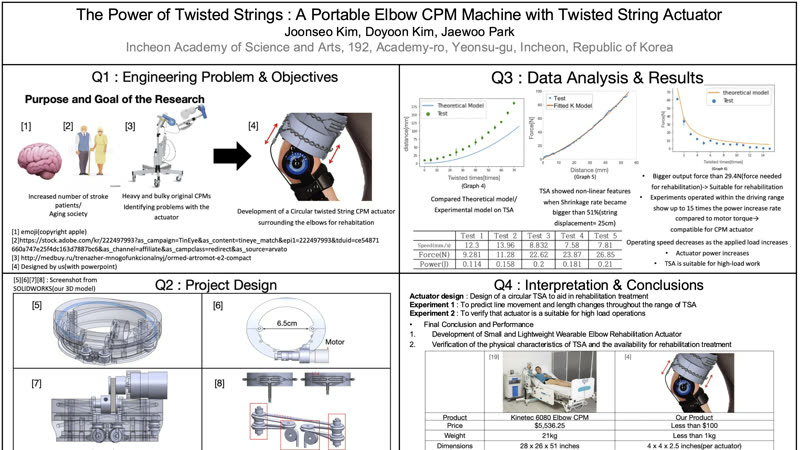
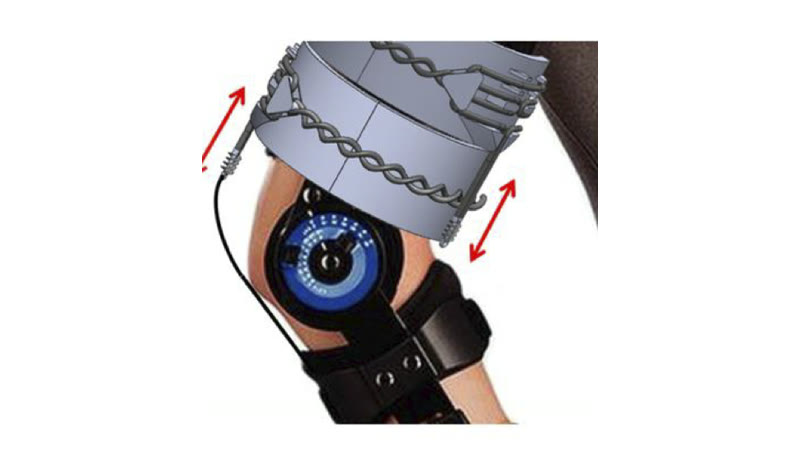
content: align pMMG project with submitted paper and polish site
- Rewrite pMMG post, card, and bullets from the latest manuscript
  (VM/VL/BF at 20-60%, R2 vs knee torque, VM 20% / VL 30% candidates)
- Update CV PDF with the same pMMG corrections
- New Twisted-String (device render) and DDQN (learning curve) thumbnails
- Tighten intro, show registered patent number, expand skills
- Restyle project list and 404 pages to the new design

diff --git a/blog.html b/blog.html
@@ -1,19 +1,21 @@
 ---
 layout: post
-title: "Posts"
+title: "Research projects"
+hide_eyebrow: true
 ---
 
-<ul class="resume-item-list">
-  {% for post in site.posts %}
-  <li style="margin-bottom: 15px">
-    <a href="{{ post.url | relative_url }}" style="
-        text-decoration: none;
-        color: inherit;
-        font-weight: bold;
-        font-size: 1.1em;
-      ">
-      {{ post.title }}
-    </a>
-  </li>
+<div class="project-grid">
+  {% for project in site.data.projects %}
+  <a class="project-card" href="{{ project.url | relative_url }}">
+    {% if project.image %}
+    <img class="project-image" src="{{ project.image | relative_url }}" alt="" loading="lazy" />
+    {% endif %}
+    <div class="project-body">
+      <div class="project-meta">{{ project.duration | replace: '&mdash;', '–' }}<br>{{ project.role | replace: ' • ', ' · ' }}</div>
+      <h3 class="project-title">{{ project.project }}</h3>
+      {% if project.summary %}<p class="project-summary">{{ project.summary }}</p>{% endif %}
+      <span class="project-link">Read more →</span>
+    </div>
+  </a>
   {% endfor %}
-</ul>
+</div>

diff --git a/404.html b/404.html
@@ -1,25 +1,9 @@
 ---
 permalink: /404.html
-layout: page
+layout: post
+title: "Page not found"
+hide_eyebrow: true
 ---
 
-<style type="text/css" media="screen">
-  .container {
-    margin: 10px auto;
-    max-width: 600px;
-    text-align: center;
-  }
-  h1 {
-    margin: 30px 0;
-    font-size: 4em;
-    line-height: 1;
-    letter-spacing: -1px;
-  }
-</style>
-
-<div class="container">
-  <h1>404</h1>
-
-  <p><strong>Page not found :(</strong></p>
-  <p>The requested page could not be found.</p>
-</div>
+<p>The page you're looking for doesn't exist or has moved.</p>
+<p><a href="{{ '/' | relative_url }}">Go to the resume</a> or <a href="{{ '/blog.html' | relative_url }}">browse all projects</a>.</p>

diff --git a/_layouts/post.html b/_layouts/post.html
@@ -107,16 +107,10 @@
     </nav>
 
     <div class="post-wrapper">
-      {% if page.title != "Posts" %}
       <header class="post-header">
-        <p class="post-eyebrow">Research project</p>
+        {% unless page.hide_eyebrow %}<p class="post-eyebrow">Research project</p>{% endunless %}
         <h1 class="post-title">{{ page.title }}</h1>
       </header>
-      {% else %}
-      <header class="post-header">
-        <h1 class="post-title">{{ page.title }}</h1>
-      </header>
-      {% endif %}
 
       <article class="post-content">{{ content }}</article>
     </div>

diff --git a/_layouts/resume.html b/_layouts/resume.html
@@ -233,7 +233,7 @@
     <div class="wrapper">
       <span>© {{ 'now' | date: '%Y' }} {{ site.resume_name }}</span>
       <span>
-        <a href="{{ '/blog.html' | relative_url }}">Project posts</a>
+        <a href="{{ '/blog.html' | relative_url }}">All projects</a>
         {% if site.resume_cv_url %} · <a href="{{ site.resume_cv_url | relative_url }}" target="_blank" rel="noopener">CV (PDF)</a>{% endif %}
       </span>
     </div>

diff --git a/_posts/2024-12-02-pmmg-sensor.md b/_posts/2024-12-02-pmmg-sensor.md
@@ -1,71 +1,72 @@
 ---
 layout: post
-title: "Optimal pMMG Sensor Placement for Knee Extensor Analysis"
+title: "pMMG Sensor Placement for Knee Extension Torque Analysis"
 # date: 2024-12-02
 ---
 
 ### Overview
-This project introduces a wearable, pneumatic mechanomyography (pMMG) sensor system designed to overcome the practical limitations of conventional muscle activation sensors. As the first author and project lead, I directed the entire research cycle—from hardware design and protocol formulation to signal processing and algorithm validation—to establish optimal sensor placement guidelines for estimating knee extensor joint torque.
+A pneumatic mechanomyography (pMMG) sensor measures the local mechanical deformation of a contracting muscle as a pressure change inside a small air cell. In this exploratory study with one healthy participant, I measured pMMG responses at multiple attachment positions on the thigh and compared each one with reference knee joint torque, to find where the sensor best reflects knee extension. The squat-group results identified **vastus medialis (VM) 20%** and **vastus lateralis (VL) 30%** as candidate attachment positions. I led the project as first author, and the manuscript is currently under review at **Journal of Sensors (Wiley)**.
 
 ---
 
 ### Key Highlights
 
 #### 1. Motivation & Objective
-Conventional sEMG sensors are highly susceptible to sweat-induced signal distortion, electrical noise, and require direct skin contact. To resolve these issues, we developed a robust pMMG sensor system capable of directly measuring mechanical muscle changes, even over clothing. Beyond simply building a sensor, the primary objective of this research is to mathematically identify the optimal sensor placements on the knee extensors (Rectus Femoris, Vastus Medialis, and Vastus Lateralis) to effectively estimate joint torque for lower limb biomechanical analysis.
+Wearable muscle sensors each have practical weaknesses: sEMG is sensitive to electrode–skin contact and electrical noise, force myography to wearing pressure and sensor position, and conventional MMG to vibration and motion artifacts. pMMG is noninvasive, resistant to electrical noise, and can measure over clothing. However, its pressure response depends on how well the muscle's deformation reaches the air cell, and unlike sEMG (with guidelines such as SENIAM), there is no established guidance on where to attach it. This study investigated attachment positions on the knee extensors VM and VL, with the knee flexor biceps femoris (BF) as a comparison muscle.
 
-#### 2. Hardware System Design
+#### 2. Hardware & Experimental Setup
 
 <div style="text-align: center; margin-top: 20px; margin-bottom: 30px;">
-  <img src="{{ '/_assets/photos/pmmg-sensor/sensor_and_housing.jpeg' | relative_url }}" alt="Final assembled sensor and 3D housing" style="width: 50%; border-radius: 8px; cursor: zoom-in; box-shadow: 0 4px 6px rgba(0,0,0,0.1); transition: transform 0.2s;" onmouseover="this.style.transform='scale(1.02)'" onmouseout="this.style.transform='scale(1)'" onclick="openModal('{{ '/_assets/photos/pmmg-sensor/sensor_and_housing.jpeg' | relative_url }}')">
+  <img src="{{ '/_assets/photos/pmmg-sensor/sensor_and_housing.jpeg' | relative_url }}" alt="Assembled pMMG sensors" style="width: 50%; border-radius: 8px; cursor: zoom-in; box-shadow: 0 4px 6px rgba(0,0,0,0.1); transition: transform 0.2s;" onmouseover="this.style.transform='scale(1.02)'" onmouseout="this.style.transform='scale(1)'" onclick="openModal('{{ '/_assets/photos/pmmg-sensor/sensor_and_housing.jpeg' | relative_url }}')">
   <p style="font-size: 0.9em; color: #555; margin-top: 15px; line-height: 1.6; text-align: center; max-width: 80%; margin-left: auto; margin-right: auto;">
-    <span style="display: block; font-style: italic; color: #666; margin-bottom: 5px;">Fig. 1: Assembled pMMG Sensor</span>
-    The final assembled pMMG sensor and its 3D-printed housing.
+    <span style="display: block; font-style: italic; color: #666; margin-bottom: 5px;">Fig. 1: pMMG Sensors</span>
+    Assembled pMMG sensors with their bands and wiring.
   </p>
 </div>
+
+Each pMMG sensor contains an MS5607 pressure sensor and is read by an STM32 microcontroller (NUCLEO-G474RE) at 200 Hz, with the firmware developed in **STM32CubeIDE**. The sensor was fixed with sports tape and then secured with an elastic band so it stayed at the same spot on the skin throughout the experiment. Reference knee joint torque was computed from a **Vicon** motion-capture system and a force-plate treadmill (MOTEK) using the plug-in gait dynamics model.
 
 <div style="text-align: center; margin-top: 20px; margin-bottom: 30px;">
   <img src="{{ '/_assets/photos/pmmg-sensor/thigh_pmmg.png' | relative_url }}" alt="Sensor attachment on the thigh" style="width: 50%; border-radius: 8px; cursor: zoom-in; box-shadow: 0 4px 6px rgba(0,0,0,0.1); transition: transform 0.2s;" onmouseover="this.style.transform='scale(1.02)'" onmouseout="this.style.transform='scale(1)'" onclick="openModal('{{ '/_assets/photos/pmmg-sensor/thigh_pmmg.png' | relative_url }}')">
   <p style="font-size: 0.9em; color: #555; margin-top: 15px; line-height: 1.6; text-align: center; max-width: 80%; margin-left: auto; margin-right: auto;">
     <span style="display: block; font-style: italic; color: #666; margin-bottom: 5px;">Fig. 2: Sensor Attachment</span>
-    Sensor attachment on the thigh for data acquisition.
+    Thigh-mounted pMMG sensors with motion-capture markers on the force-plate treadmill.
   </p>
 </div>
 
-To accommodate diverse body types and control external variables like band tension, I designed a non-elastic Velcro-based sensor housing. The hardware incorporates a PVC film-based air pouch, an MS5607 pneumatic pressure sensor, and an STM32 (NUCLEO-G474RE) microcontroller. The firmware was developed utilizing **STM32CubeIDE** to ensure reliable and continuous data acquisition at a 200Hz sampling rate.
+Attachment positions were expressed as a percentage of thigh length, from the distal femur (0%) to the top of the femoral head (100%). Responses were recorded at **20% to 60%** on each of VM, VL, and BF.
 
-#### 3. Signal Processing & Validation
+#### 3. Protocol & Analysis
 
 <div style="display: flex; justify-content: center; gap: 10px; margin-top: 20px;">
-  <img src="{{ '/_assets/photos/pmmg-sensor/squat_exp.png' | relative_url }}" alt="Squat Experiment" style="width: 49%; border-radius: 8px; cursor: zoom-in; box-shadow: 0 4px 6px rgba(0,0,0,0.1); transition: transform 0.2s;" onmouseover="this.style.transform='scale(1.02)'" onmouseout="this.style.transform='scale(1)'" onclick="openModal('{{ '/_assets/photos/pmmg-sensor/squat_exp.png' | relative_url }}')">
-  <img src="{{ '/_assets/photos/pmmg-sensor/gait_exp.png' | relative_url }}" alt="Gait Experiment" style="width: 49%; border-radius: 8px; cursor: zoom-in; box-shadow: 0 4px 6px rgba(0,0,0,0.1); transition: transform 0.2s;" onmouseover="this.style.transform='scale(1.02)'" onmouseout="this.style.transform='scale(1)'" onclick="openModal('{{ '/_assets/photos/pmmg-sensor/gait_exp.png' | relative_url }}')">
+  <img src="{{ '/_assets/photos/pmmg-sensor/squat_exp.png' | relative_url }}" alt="Squat task" style="width: 49%; border-radius: 8px; cursor: zoom-in; box-shadow: 0 4px 6px rgba(0,0,0,0.1); transition: transform 0.2s;" onmouseover="this.style.transform='scale(1.02)'" onmouseout="this.style.transform='scale(1)'" onclick="openModal('{{ '/_assets/photos/pmmg-sensor/squat_exp.png' | relative_url }}')">
+  <img src="{{ '/_assets/photos/pmmg-sensor/gait_exp.png' | relative_url }}" alt="Walking task" style="width: 49%; border-radius: 8px; cursor: zoom-in; box-shadow: 0 4px 6px rgba(0,0,0,0.1); transition: transform 0.2s;" onmouseover="this.style.transform='scale(1.02)'" onmouseout="this.style.transform='scale(1)'" onclick="openModal('{{ '/_assets/photos/pmmg-sensor/gait_exp.png' | relative_url }}')">
 </div>
 <p style="font-size: 0.9em; color: #555; margin-top: 15px; margin-bottom: 30px; line-height: 1.6; text-align: center;">
-  <span style="display: block; font-style: italic; color: #666; margin-bottom: 5px;">Fig. 3: Experimental Setup</span>
-  Simultaneous measurement of pMMG pressure and knee joint torque during squat and walking tasks.
+  <span style="display: block; font-style: italic; color: #666; margin-bottom: 5px;">Fig. 3: Movement Tasks</span>
+  Squat and walking tasks performed with the pMMG sensors and motion-capture markers attached.
 </p>
 
-<div style="display: flex; gap: 20px; margin-bottom: 30px; align-items: flex-start;">
-  <div style="flex: 1; text-align: center;">
-    <img src="{{ '/_assets/photos/pmmg-sensor/datamonitoring.jpeg' | relative_url }}" alt="Data Monitoring Interface" style="width: 100%; height: 220px; object-fit: cover; border-radius: 8px; cursor: zoom-in; box-shadow: 0 4px 6px rgba(0,0,0,0.1); transition: transform 0.2s;" onmouseover="this.style.transform='scale(1.02)'" onmouseout="this.style.transform='scale(1)'" onclick="openModal('{{ '/_assets/photos/pmmg-sensor/datamonitoring.jpeg' | relative_url }}')">
-    <p style="font-size: 0.9em; color: #555; margin-top: 15px; line-height: 1.6; text-align: left;">
-      <span style="display: block; font-style: italic; color: #666; margin-bottom: 5px;">Fig. 4: Real-time Data Monitoring Interface (Representative sEMG GUI)</span>
-      While pMMG-specific captures were not preserved, this representative interface illustrates the real-time acquisition system used, featuring core controls and multi-channel waveform displays for immediate signal verification.
-    </p>
-  </div>
-  <div style="flex: 1; text-align: center;">
-    <img src="{{ '/_assets/photos/pmmg-sensor/hwconfig.jpeg' | relative_url }}" alt="Hardware Configuration" style="width: 100%; height: 220px; object-fit: cover; border-radius: 8px; cursor: zoom-in; box-shadow: 0 4px 6px rgba(0,0,0,0.1); transition: transform 0.2s;" onmouseover="this.style.transform='scale(1.02)'" onmouseout="this.style.transform='scale(1)'" onclick="openModal('{{ '/_assets/photos/pmmg-sensor/hwconfig.jpeg' | relative_url }}')">
-    <p style="font-size: 0.9em; color: #555; margin-top: 15px; line-height: 1.6; text-align: left;">
-      <span style="display: block; font-style: italic; color: #666; margin-bottom: 5px;">Fig. 5: Hardware Configuration</span>
-      Pinout configuration of the STM32G474RETx MCU in STM32CubeIDE, detailing SPI and ADC assignments essential for processing raw pMMG and sEMG signals.
-    </p>
-  </div>
+The participant performed **squat, single-leg squat, crouch gait**, and **walking at 1.0 and 1.5 m/s**. Squat, single-leg squat, and crouch gait load the knee extensors heavily and were pooled as the *squat group*; walking served as a low-torque dynamic comparison. Each trial started and ended with three foot stomps, which were used to align the pMMG and motion-capture data in time.
+
+For each sensor position, a passive knee movement trial (no voluntary contraction) gave a baseline pressure that was subtracted from the active trials. After a 4 Hz low-pass filter, I computed the squared Pearson correlation **R²** between the pMMG pressure response and knee joint torque for every muscle, position, and task. R² was used as a measure of linear association, not of torque-estimation accuracy.
+
+<div style="text-align: center; margin-top: 20px; margin-bottom: 30px;">
+  <img src="{{ '/_assets/photos/pmmg-sensor/hwconfig.jpeg' | relative_url }}" alt="STM32 pin configuration" style="width: 60%; border-radius: 8px; cursor: zoom-in; box-shadow: 0 4px 6px rgba(0,0,0,0.1); transition: transform 0.2s;" onmouseover="this.style.transform='scale(1.02)'" onmouseout="this.style.transform='scale(1)'" onclick="openModal('{{ '/_assets/photos/pmmg-sensor/hwconfig.jpeg' | relative_url }}')">
+  <p style="font-size: 0.9em; color: #555; margin-top: 15px; line-height: 1.6; text-align: center; max-width: 80%; margin-left: auto; margin-right: auto;">
+    <span style="display: block; font-style: italic; color: #666; margin-bottom: 5px;">Fig. 4: MCU Configuration</span>
+    Pin configuration of the STM32G474RE in STM32CubeIDE for the sensor interfaces.
+  </p>
 </div>
 
-To validate the sensor's reliability, I designed comprehensive experimental protocols involving squat and treadmill walking tasks. Real-time sensor data was continuously monitored and logged using **STM32CubeMonitor** and custom **Python** scripts. I built a signal processing pipeline utilizing Least Squares Fitting to remove passive muscle stretch offsets, successfully extracting only the active muscle force generation signals. Subsequent Z-normalization and custom linearity evaluation equations were applied to quantitatively analyze the pMMG signal's response to increasing load. Notably, the validation included simultaneous measurements of pMMG pressure and knee joint torque to rigorously verify the correlation between the two.
+#### 4. Results
+* **VM and VL track knee torque far better than BF.** Across squat, single-leg squat, and crouch gait, the position-averaged R² of VM and VL was higher than that of BF, consistent with their roles as knee extensors.
+* **Candidate positions: VM 20% and VL 30%.** In the squat group, the strongest relationships were at VM 20% (R² = 0.752) and VL 30% (R² = 0.824), which were 43.8% and 98.1% higher than at the worst positions of each muscle.
+* **Best positions sit distal to the muscle belly.** VL's best position lay distal to its largest cross-section, suggesting that soft-tissue thickness and signal transmission matter as well as muscle-belly location. Both candidates are close to the distal SENIAM sEMG electrode sites.
+* **Walking gives weak, variable relationships.** With a narrow torque range and more movement artifacts, walking produced low R², so it was treated as a comparison condition rather than a basis for choosing positions.
 
-#### 4. Outcomes & Current Status
-The analysis proved that the Vastus Medialis exhibits the most linear and consistent response to load changes, allowing us to derive optimal placement guidelines for each target muscle (Rectus Femoris 50%, Vastus Lateralis 60%, Vastus Medialis 20%). Furthermore, walking experiments demonstrated a remarkable 1.97% error rate between the pMMG signal inflection points and the actual joint torque. Based on these results, I submitted a first-author manuscript, *Placement-Dependent pMMG Responses for Knee Extension Torque Analysis*, to **Journal of Sensors (Wiley)**, where it is currently under review.
+#### 5. Limitations & Current Status
+Because the study involved a single participant, VM 20% and VL 30% are candidate positions, not a definitive guideline. The 30% squat data were excluded due to a data-acquisition error, and knee joint torque is a net joint torque rather than an individual muscle's contribution. Future work should test more participants with repeated measurements. The manuscript, *Placement-Dependent pMMG Responses for Knee Extension Torque Analysis*, is under review at **Journal of Sensors (Wiley)**.
 
 <div id="unified-image-modal" style="display: none; position: fixed; z-index: 2000; left: 0; top: 0; width: 100%; height: 100%; background-color: rgba(15, 23, 42, 0.85); backdrop-filter: blur(6px); -webkit-backdrop-filter: blur(6px); align-items: center; justify-content: center; cursor: zoom-out;" onclick="this.style.display='none'">
   <span style="position: absolute; top: 20px; right: 30px; color: rgba(255,255,255,0.8); font-size: 40px; font-weight: bold;">&times;</span>
